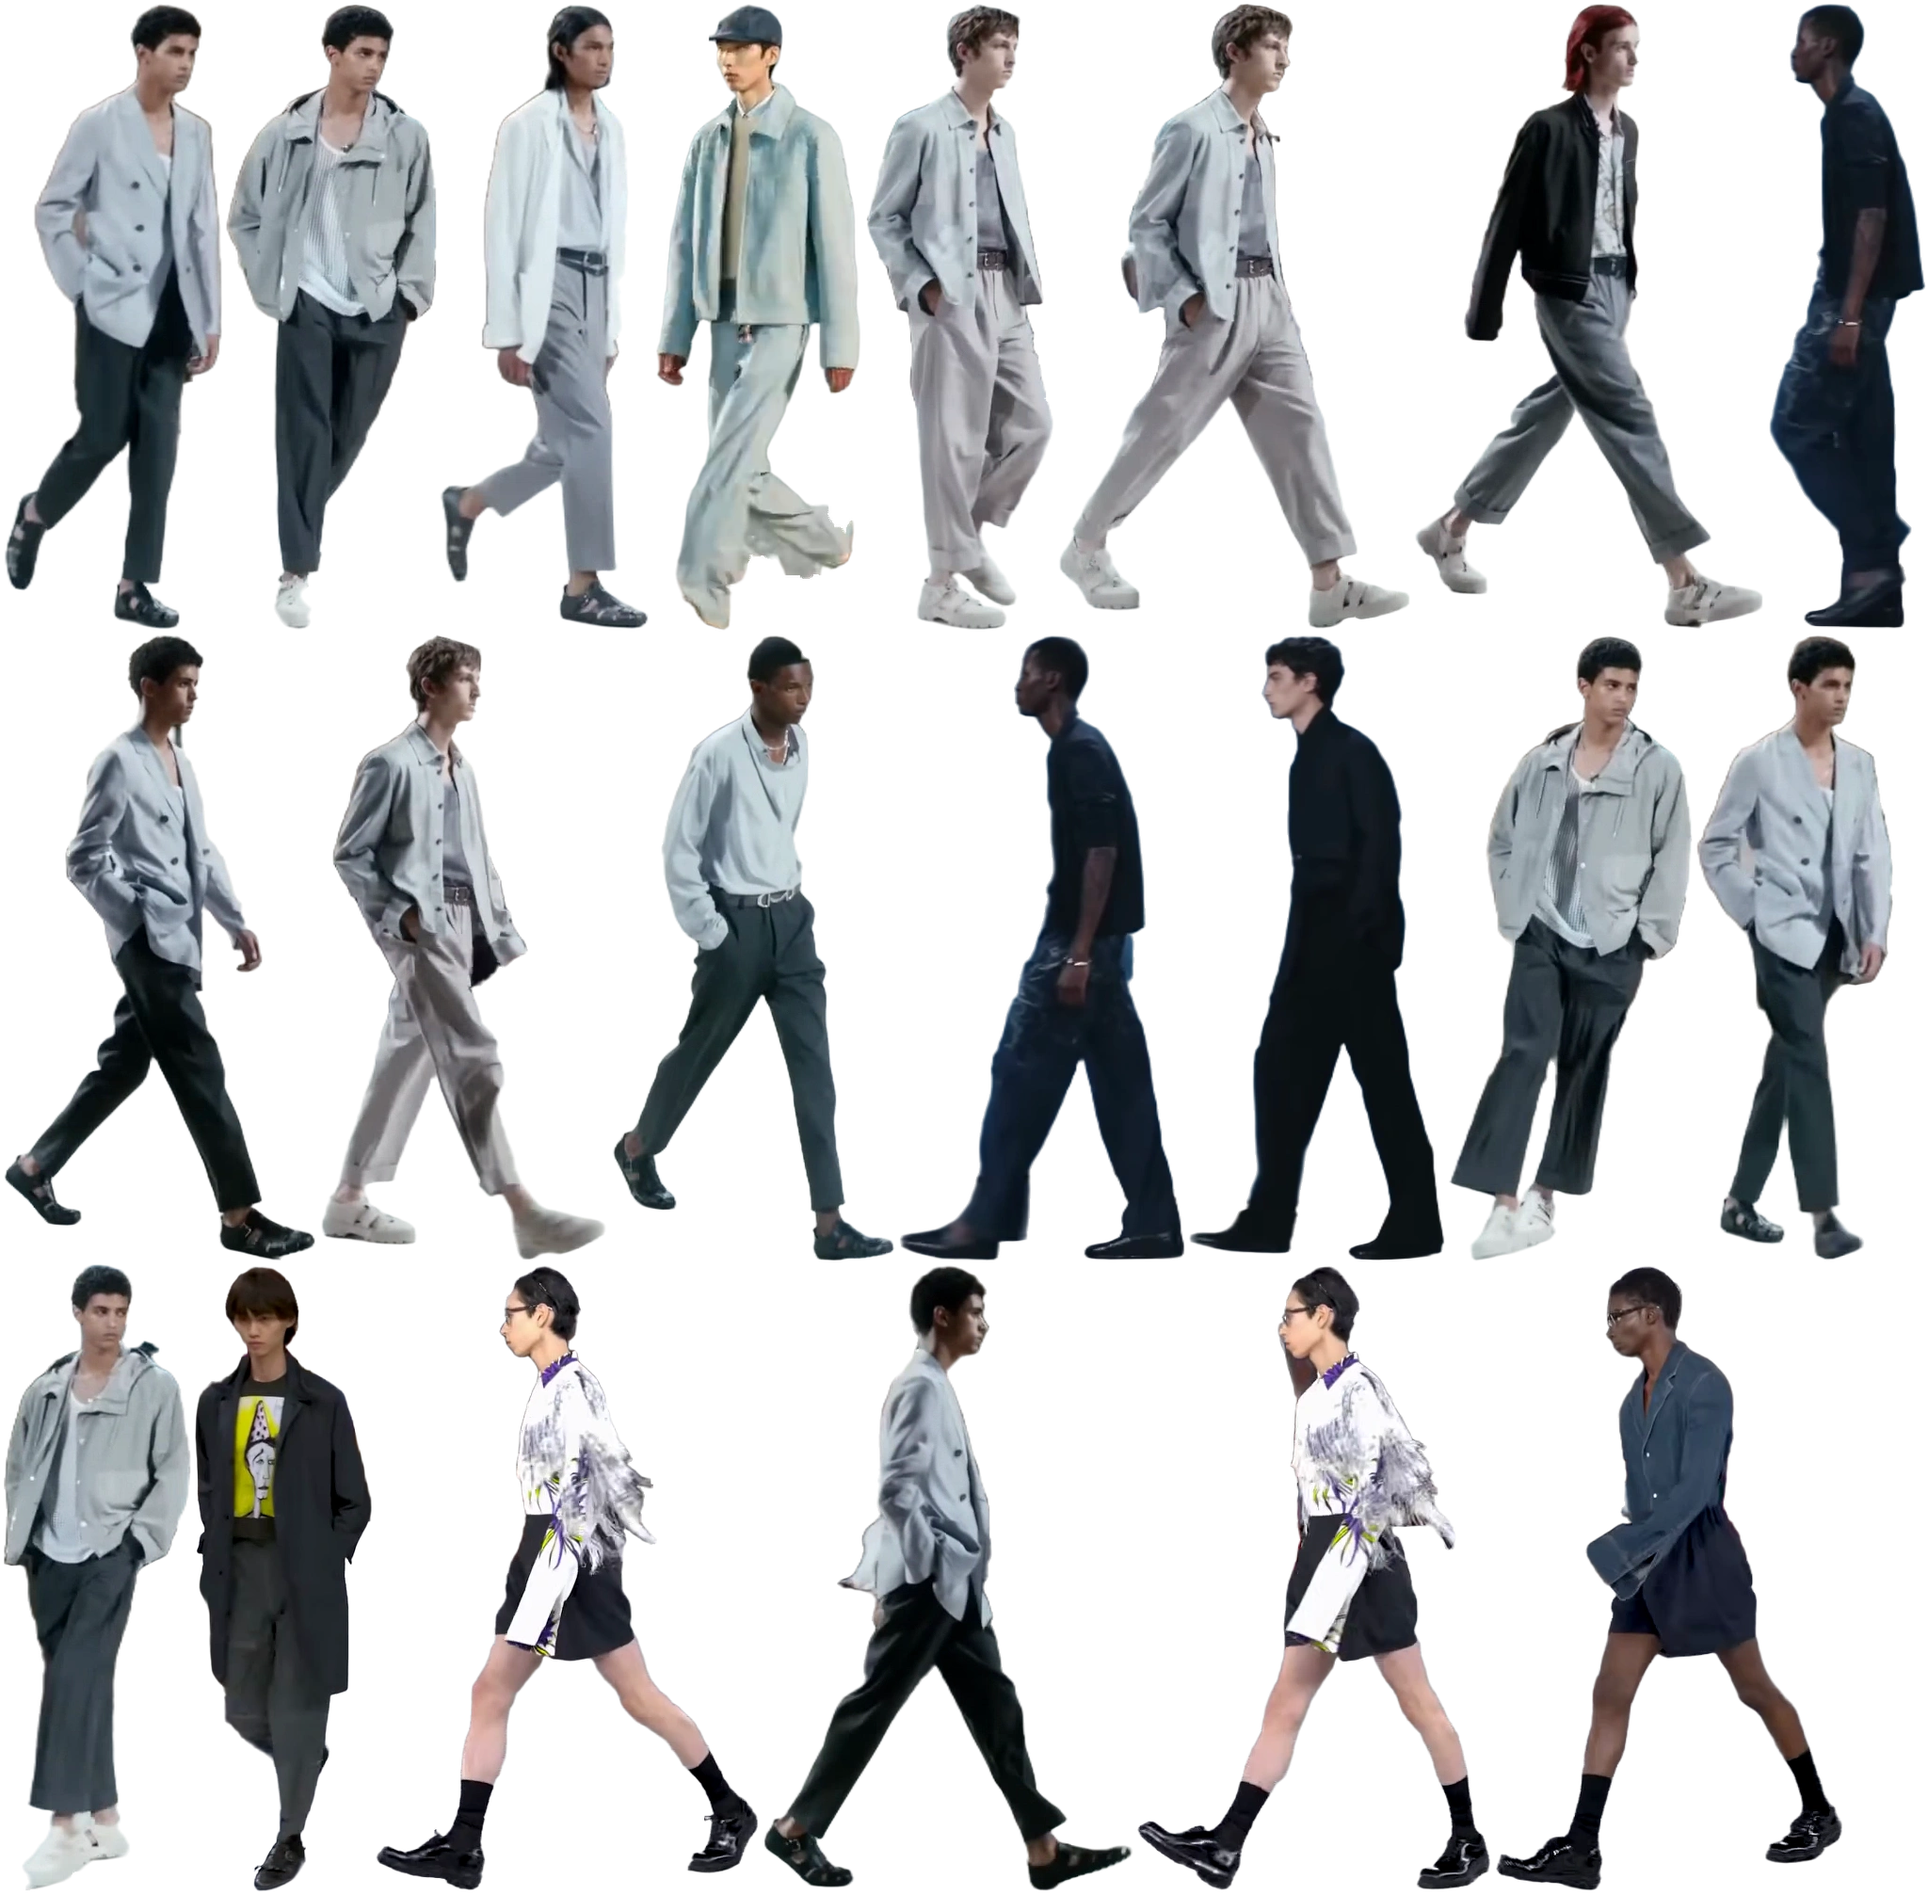
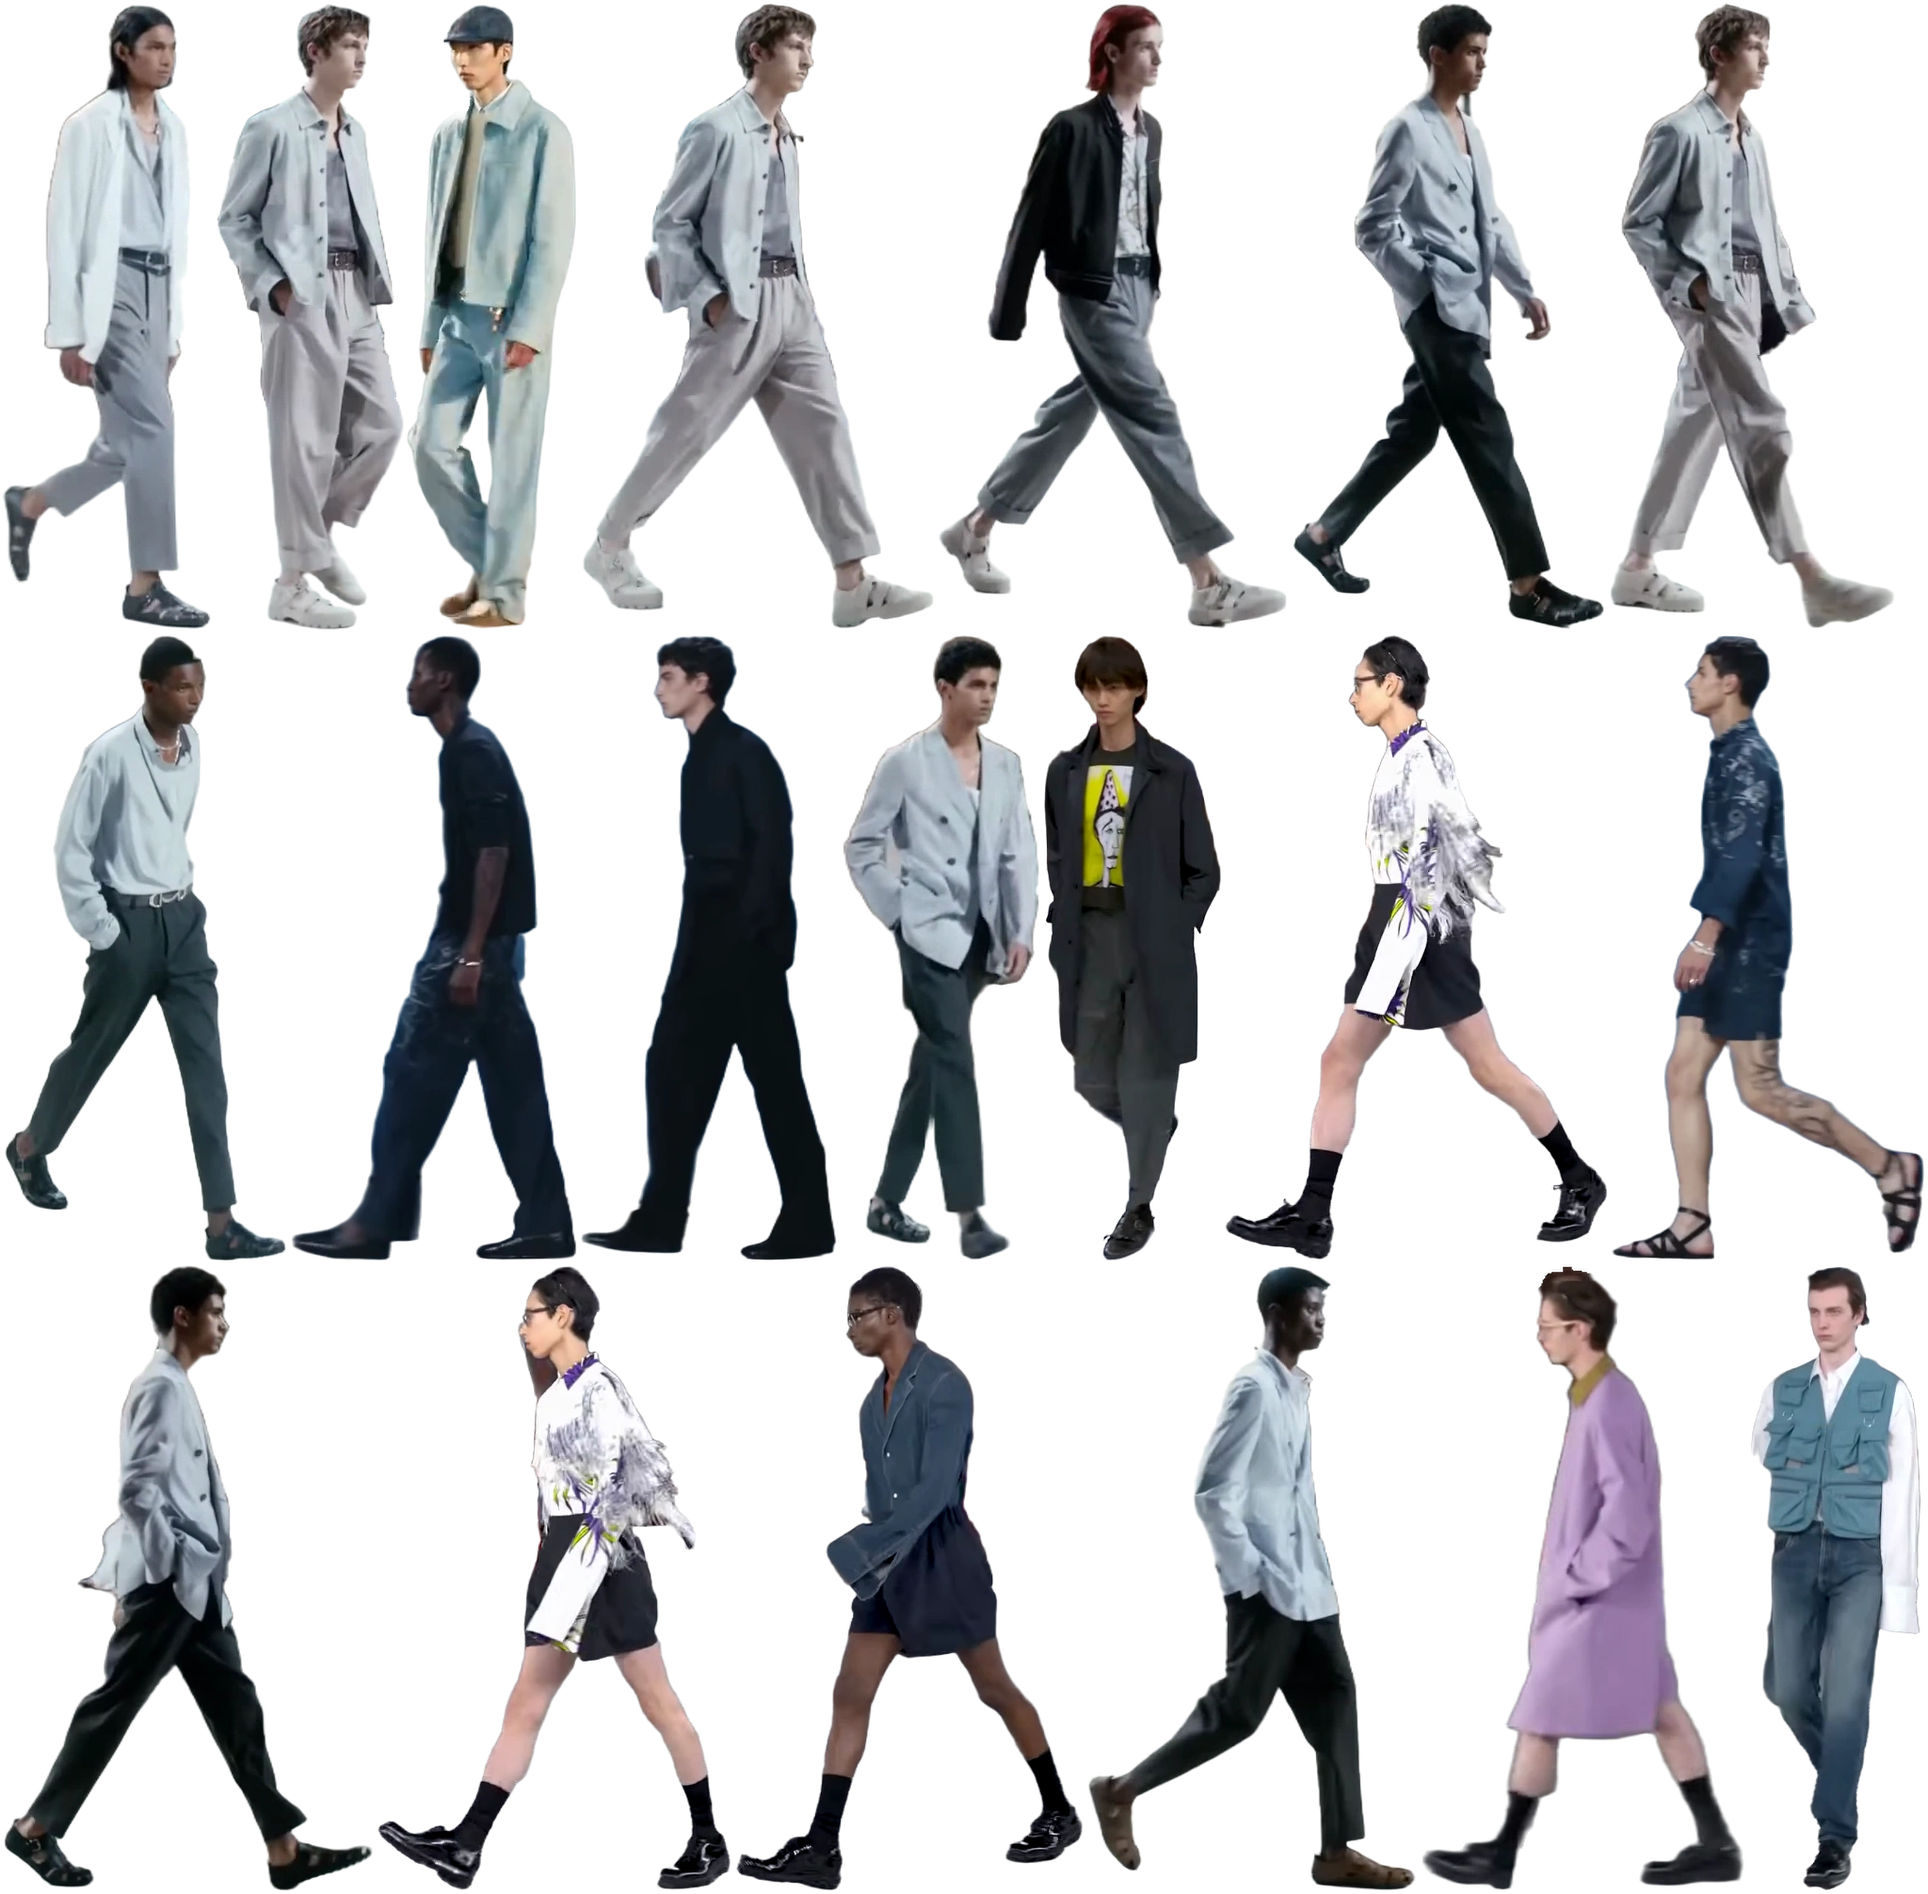
fix(runway-walk): hold inconsistent shallow right-turn clips

diff --git a/pages/runway-walk/angle-match.ts b/pages/runway-walk/angle-match.ts
@@ -1,5 +1,6 @@
+import { blockHeld } from './review-policy';
 export type AngleFrame = { clip: string; look?: string; source: string; sourceFrame: number; yaw: number; phase: number; atlas: number; tile: number; gait?: readonly number[]; gaitVelocity?: readonly number[] };
-export type AngleBlock = { start: number; yaw: number; minYaw?: number; maxYaw?: number; phase: number; clip: string; look?: string; gait?: readonly number[]; gaitVelocity?: readonly number[] };
+export type AngleBlock = { start: number; yaw: number; minYaw?: number; maxYaw?: number; phase: number; clip: string; look?: string; sourceFrame?: number; lastSourceFrame?: number; gait?: readonly number[]; gaitVelocity?: readonly number[] };
 export function buildBlocks(frames: readonly AngleFrame[], hold = 3): AngleBlock[] {
   return frames.flatMap((f, start) => {
     for (let offset = 1; offset < hold; offset++) {
@@ -10,7 +11,7 @@ export function buildBlocks(frames: readonly AngleFrame[], hold = 3): AngleBlock
       if (next.gait?.some((value, index) => Math.abs(value - (previous.gait?.[index] ?? value)) > .12)) return [];
     }
     const yaws = frames.slice(start, start + hold).map(frame => frame.yaw);
-    return [{ start, yaw: yaws.reduce((sum,value)=>sum+value,0)/hold, minYaw: Math.min(...yaws), maxYaw: Math.max(...yaws), phase: f.phase, clip: f.clip, look: f.look ?? f.clip, gait: f.gait, gaitVelocity: f.gaitVelocity }];
+    return [{ start, yaw: yaws.reduce((sum,value)=>sum+value,0)/hold, minYaw: Math.min(...yaws), maxYaw: Math.max(...yaws), phase: f.phase, clip: f.clip, look: f.look ?? f.clip, sourceFrame: f.sourceFrame, lastSourceFrame: f.sourceFrame+hold-1, gait: f.gait, gaitVelocity: f.gaitVelocity }];
   });
 }
 export function phaseDistance(a: number, b: number) {
@@ -26,6 +27,7 @@ function swapLegs(values?: readonly number[]) {
   return [values[2],values[3],values[0],values[1],values[6],values[7],values[4],values[5]];
 }
 export function directionCandidates(blocks: readonly AngleBlock[], yaw: number) {
+  blocks = blocks.filter(b => !blockHeld(b.clip,b.sourceFrame ?? -1,b.lastSourceFrame ?? -1,yaw));
   if (!blocks.length) return [];
   const error = (block: AngleBlock) => Math.max(Math.abs((block.minYaw ?? block.yaw) - yaw), Math.abs((block.maxYaw ?? block.yaw) - yaw));
   const nearest = Math.min(...blocks.map(error));

diff --git a/pages/runway-walk/review-policy.test.ts b/pages/runway-walk/review-policy.test.ts
@@ -1,0 +1,21 @@
+import { test, expect } from 'vitest';
+import { blockHeld, heldForTarget } from './review-policy';
+import data from './angles.json';
+import previews from './drag.json';
+import { buildBlocks, directionCandidates, directionCoverage } from './angle-match';
+
+test('review holds affect every source frame in a cut and only their reviewed target views',()=> {
+  expect(blockHeld('hermes25-right-477',11929,11931,10)).toBe(true);
+  expect(blockHeld('hermes25-right-477',11930,11932,20)).toBe(false);
+  const blocks=buildBlocks(data.frames);
+  for (let yaw=-90;yaw<=90;yaw+=5) {
+    for (const block of directionCandidates(blocks,yaw)) {
+      expect(data.frames.slice(block.start,block.start+3).some(f=>heldForTarget(f,yaw))).toBe(false);
+    }
+    const coverage=directionCoverage(data.frames,blocks,yaw);
+    expect(coverage.outfits,`outfits at ${yaw}`).toBeGreaterThanOrEqual(8);
+  }
+  previews.lookup.forEach((row,direction)=>row.forEach(tile=> {
+    expect(heldForTarget(data.frames[previews.tiles[tile].frame],-90+direction*5)).toBe(false);
+  }));
+});

diff --git a/pages/runway-walk/review-policy.ts b/pages/runway-walk/review-policy.ts
@@ -1,0 +1,11 @@
+import audits from './frame-audit.json';
+export { audits };
+export function frameAudits(frame: { clip: string; sourceFrame: number }) {
+  return audits.filter(a => a.clip===frame.clip && frame.sourceFrame>=a.fromFrame && frame.sourceFrame<=a.toFrame);
+}
+export function heldForTarget(frame: { clip: string; sourceFrame: number }, target: number) {
+  return frameAudits(frame).some(a => a.action==='hold' && a.targets.includes(target));
+}
+export function blockHeld(clip: string, from: number, to: number, target: number) {
+  return audits.some(a => a.action==='hold' && a.clip===clip && a.targets.includes(target) && a.fromFrame<=to && a.toFrame>=from);
+}

diff --git a/scripts/runway-walk/drag-previews.py b/scripts/runway-walk/drag-previews.py
@@ -9,9 +9,14 @@ from PIL import Image
 
 parser=argparse.ArgumentParser(description=__doc__)
 parser.add_argument('--output',type=Path,required=True)
+parser.add_argument('--reviews',type=Path,default=Path(__file__).resolve().parents[2]/'pages/runway-walk/frame-audit.json')
 args=parser.parse_args()
 manifest=json.loads((args.output/'angles.json').read_text())
 frames=manifest['frames'];hold=manifest['holdFrames'];phases=8;step=5
+audits=json.loads(args.reviews.read_text())
+def held(block,yaw):
+    return any(a['action']=='hold' and yaw in a['targets'] and a['clip']==block[0]['clip'] and
+               a['fromFrame']<=block[-1]['sourceFrame'] and a['toFrame']>=block[0]['sourceFrame'] for a in audits)
 blocks=[]
 for i,f in enumerate(frames):
     block=frames[i:i+hold]
@@ -20,7 +25,7 @@ for i,f in enumerate(frames):
         blocks.append((i,min(r['yaw'] for r in block),max(r['yaw'] for r in block),sum(r['yaw'] for r in block)/hold))
 lookup=[];selected=[];indices={}
 for yaw in range(manifest['yawRange'][0],manifest['yawRange'][1]+1,step):
-    candidates=[b for b in blocks if max(abs(b[1]-yaw),abs(b[2]-yaw))<=5]
+    candidates=[b for b in blocks if max(abs(b[1]-yaw),abs(b[2]-yaw))<=5 and not held(frames[b[0]:b[0]+hold],yaw)]
     if not candidates:raise ValueError(f'No reviewed drag frame for {yaw}')
     direction=[]
     for phase in range(phases):
